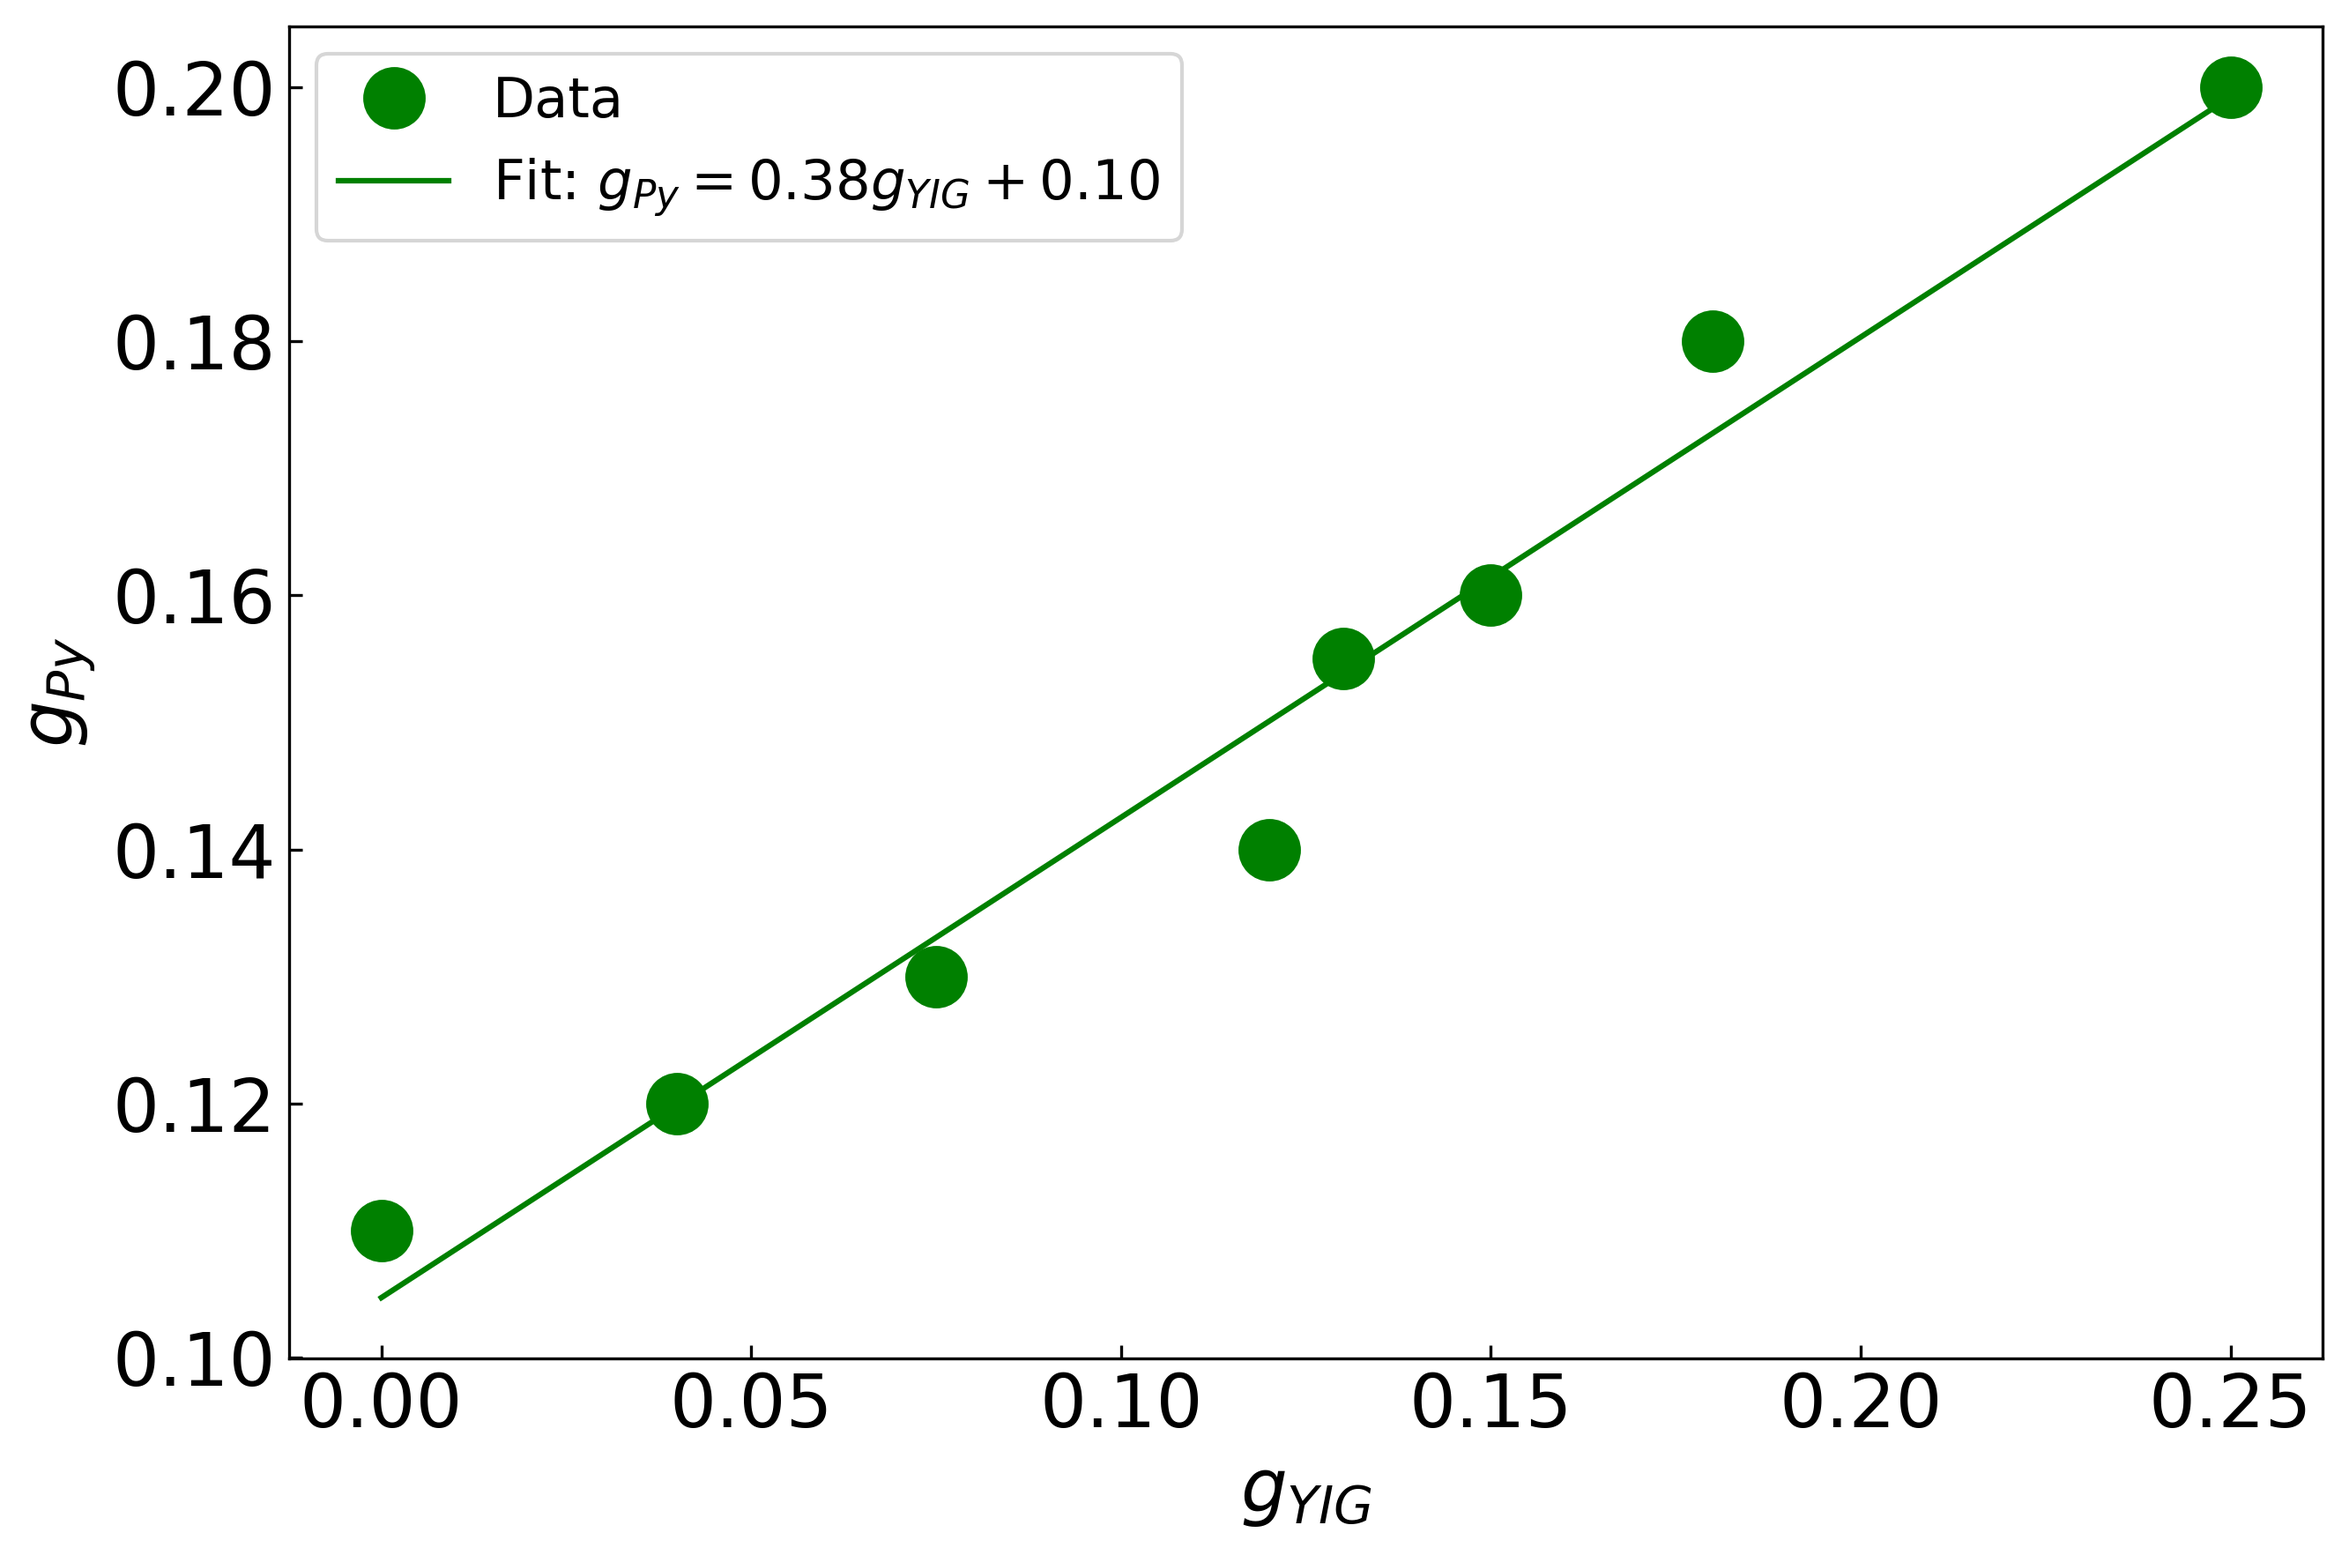
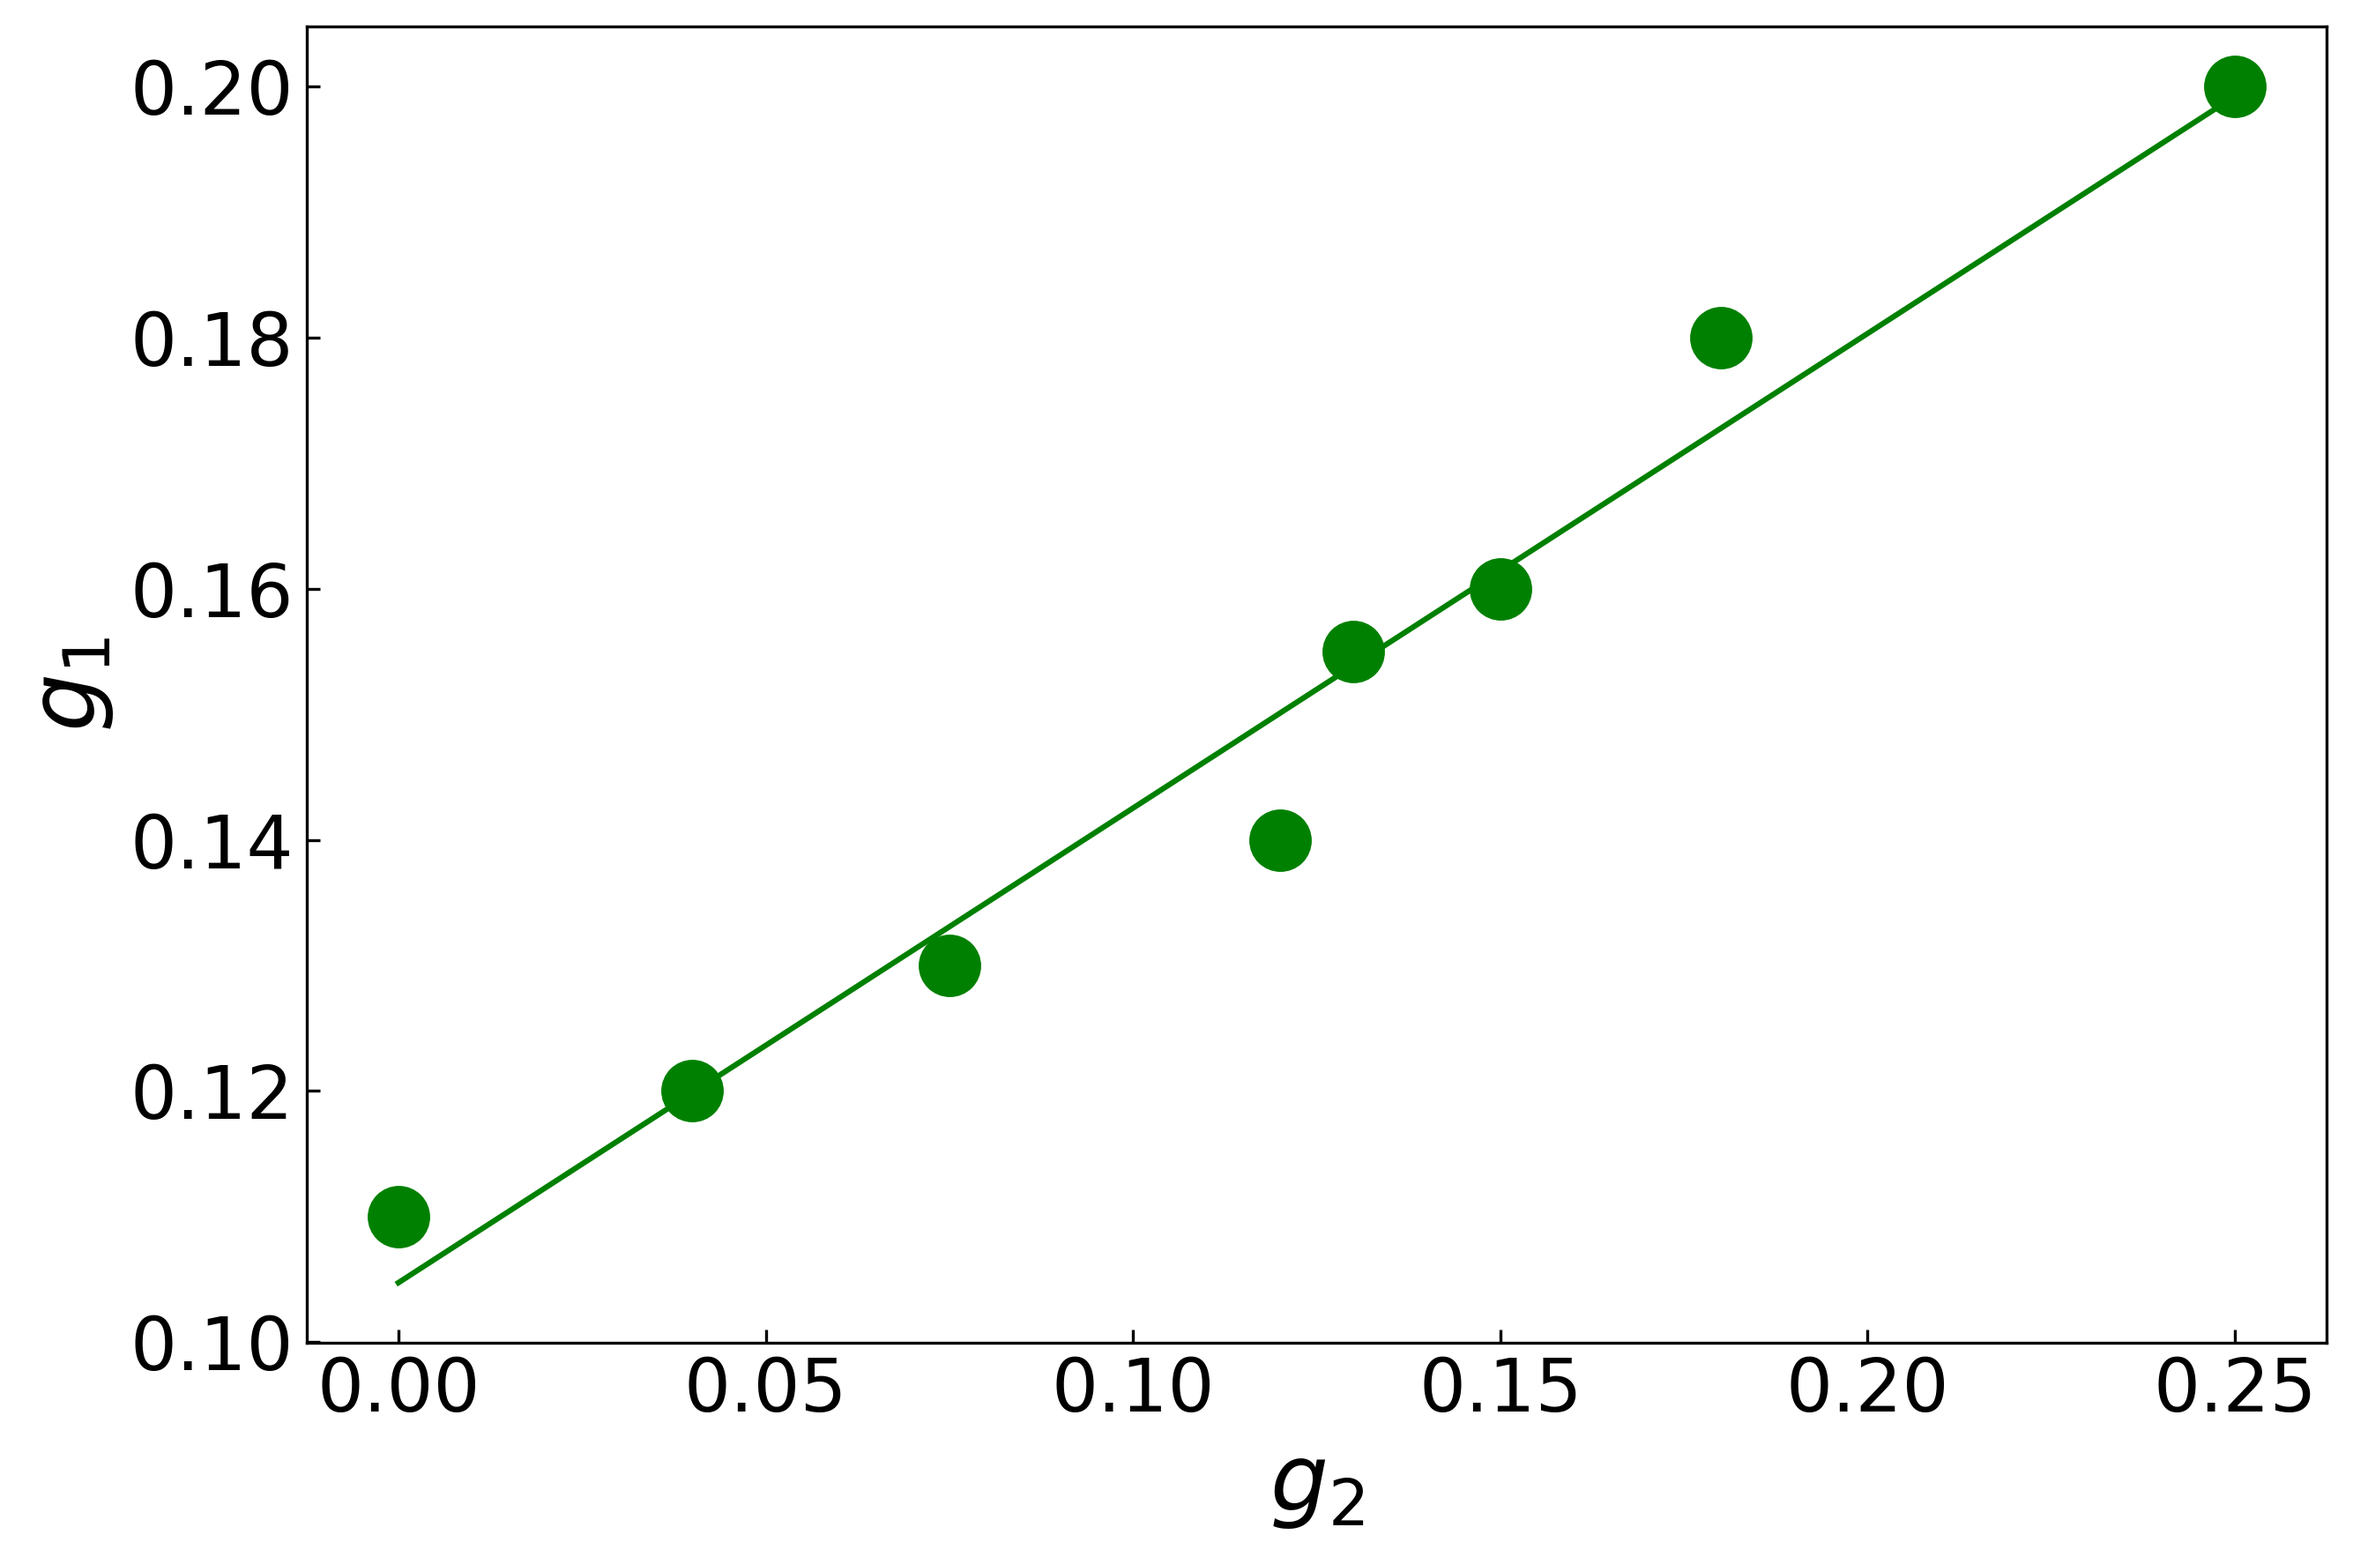
Refactor code structure for improved readability and maintainability

diff --git a/g vs t/g1g2_vs_t_plotter_saturation.py b/g vs t/g1g2_vs_t_plotter_saturation.py
@@ -1,3 +1,4 @@
+import sys
 import numpy as np
 import pandas as pd
 import matplotlib.pyplot as plt
@@ -157,8 +158,8 @@ plt.plot(t, g3, 'y^', label='$g_{YIG}$ data (Py absent)',markersize=15)
 plt.plot(t, g3_fit_vals, 'y-', label=f'$g_{{\\text{{int}}}} = {g3_model.coef_[0]:.2f}t + {g3_model.intercept_:.2f}$')# (R^2 = {r2_g3:.2f})$')
 
 # Customize plot
-plt.xlabel('t',fontsize=20)
-plt.ylabel('$g$',fontsize=20)
+plt.xlabel('t',fontsize=sys.argv[1])
+plt.ylabel('$g$',fontsize=sys.argv[1])
 plt.tick_params(axis='both', which='major', labelsize=20, direction='in')
 plt.tick_params(axis='both', which='minor', labelsize=8, direction='in')
 # plt.title(f'Saturation Fits for g1 and g2 (R^2: g1 = {r2_g1:.2f}, g2 = {r2_g2:.2f})')

diff --git a/g vs t/gyig_vs_t.py b/g vs t/gyig_vs_t.py
@@ -3,6 +3,7 @@ import matplotlib.pyplot as plt
 from scipy.stats import linregress
 import numpy as np
 import pandas as pd
+import sys
 
 root = os.path.join(os.getcwd(),"data","lone_t_sweep_yig")
 # J_values = np.linspace(0.09, 0.237, 7)
@@ -38,8 +39,8 @@ plt.plot(t_fit, J_fit, 'b-', label=f'$g_{{YIG}} = {slope:.3f}t {'+'*(int(interce
 # plt.legend(fontsize=15)
 
 # plt.title('$g_{YIG}$ vs t')
-plt.xlabel('t',fontsize=20)
-plt.ylabel('$g_{YIG}$',fontsize=20)
+plt.xlabel('t',fontsize=sys.argv[1])
+plt.ylabel('$g_2$',fontsize=sys.argv[1])
 # plt.grid()
 plt.tick_params(axis='both', which='major', labelsize=20, direction='in')
 plt.tick_params(axis='both', which='minor', labelsize=8, direction='in')

diff --git a/g vs t/g2_vs_g1.py b/g vs t/g2_vs_g1.py
@@ -1,3 +1,4 @@
+import sys
 import numpy as np
 import pandas as pd
 from scipy.stats import linregress
@@ -25,8 +26,8 @@ plt.figure(figsize=(9, 6))
 
 plt.plot(g2,g1,'go',markersize=16,label='Data')
 plt.plot(g2, slope * g2 + intercept, 'g-', label=f'Fit: $g_{{Py}} = {slope:.2f} g_{{YIG}} + {intercept:.2f}$')
-plt.xlabel("$g_{YIG}$",fontsize=20)
-plt.ylabel("$g_{Py}$",fontsize=20)
+plt.xlabel("$g_2$",fontsize=sys.argv[1])
+plt.ylabel("$g_1$",fontsize=sys.argv[1])
 plt.tick_params(axis='both', which='major', labelsize=20, direction='in')
 plt.tick_params(axis='both', which='minor', labelsize=8, direction='in')
 # plt.legend(fontsize=12)

diff --git a/g vs t/triple_plotter_couplings.py b/g vs t/triple_plotter_couplings.py
@@ -1,0 +1,7 @@
+import os
+
+fontsize = 25
+
+os.system(f'C:/Users/freak/miniforge3/envs/cavityCoupling/python.exe "c:/Users/freak/Documents/core/Projects/cavityCoupling/g vs t/g1g2_vs_t_plotter_saturation.py" {fontsize}')
+os.system(f'C:/Users/freak/miniforge3/envs/cavityCoupling/python.exe "c:/Users/freak/Documents/core/Projects/cavityCoupling/g vs t/g2_vs_g1.py" {fontsize}')
+os.system(f'C:/Users/freak/miniforge3/envs/cavityCoupling/python.exe "c:/Users/freak/Documents/core/Projects/cavityCoupling/g vs t/gyig_vs_t.py" {fontsize}')
